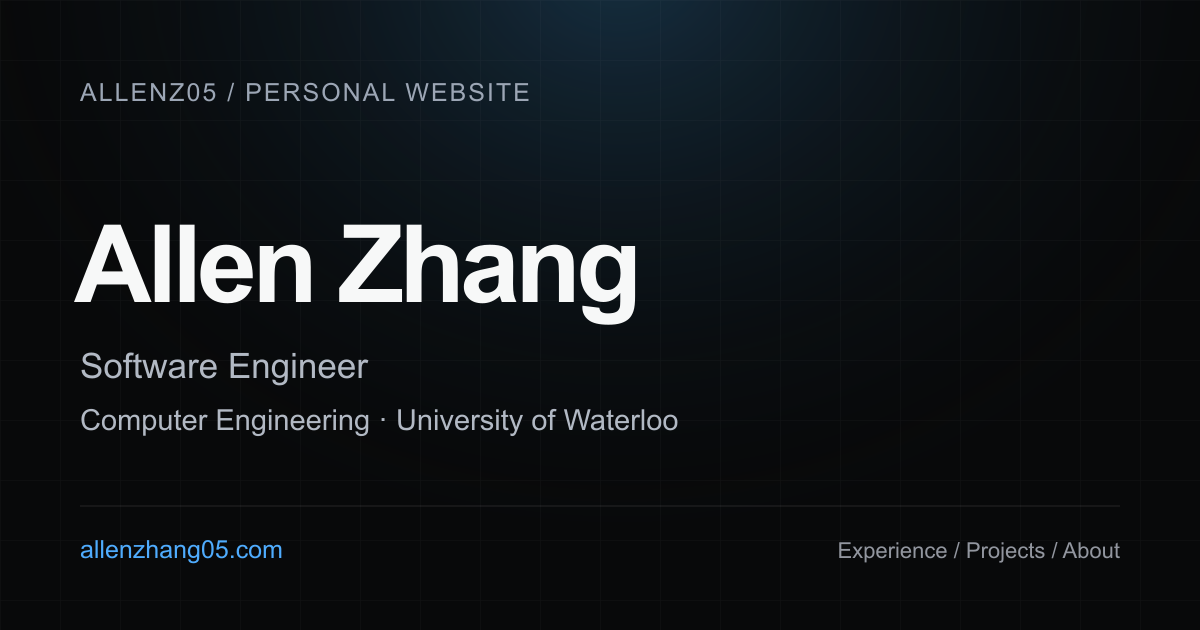
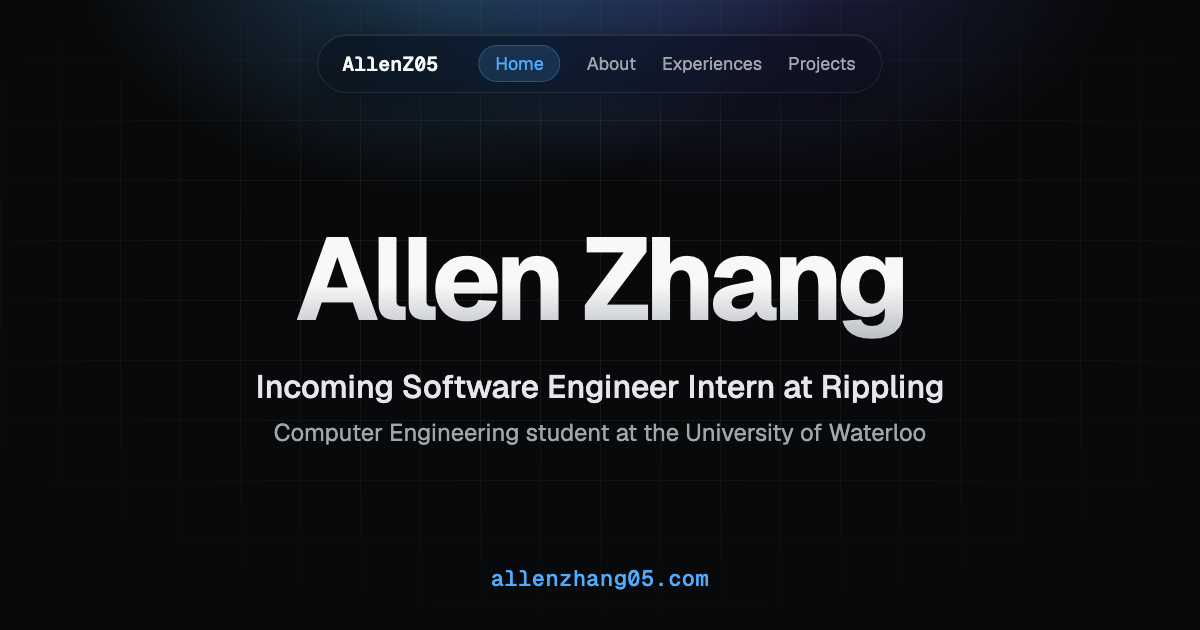
Regenerate the link preview image from profile data in the glass style

diff --git a/Allen-Zhang/assets/social-preview.html b/Allen-Zhang/assets/social-preview.html
@@ -1,0 +1,133 @@
+<!doctype html>
+<!-- Link preview (Open Graph) image. scripts/social-preview.mjs fills the double-brace placeholders from
+     src/data/profile.js and renders this page to public/social-preview.png at 1200×630. -->
+<html lang="en">
+  <head>
+    <meta charset="utf-8" />
+    <link
+      href="https://fonts.googleapis.com/css2?family=Geist:wght@400;500;700&family=Geist+Mono:wght@500;600&display=block"
+      rel="stylesheet"
+    />
+    <style>
+      * {
+        margin: 0;
+        box-sizing: border-box;
+      }
+      body {
+        position: relative;
+        width: 1200px;
+        height: 630px;
+        overflow: hidden;
+        background: #08090a;
+        color: #f7f8f8;
+        font-family: Geist, system-ui, sans-serif;
+      }
+      .glow {
+        position: absolute;
+        inset: 0;
+        background:
+          radial-gradient(ellipse 45% 55% at 38% -8%, rgba(79, 172, 254, 0.32), transparent 70%),
+          radial-gradient(ellipse 45% 55% at 62% -8%, rgba(99, 102, 241, 0.26), transparent 70%);
+      }
+      .grid {
+        position: absolute;
+        inset: 0;
+        background-image:
+          linear-gradient(rgba(255, 255, 255, 0.06) 1px, transparent 1px),
+          linear-gradient(90deg, rgba(255, 255, 255, 0.06) 1px, transparent 1px);
+        background-size: 60px 60px;
+        mask-image: radial-gradient(ellipse 75% 70% at 50% 42%, #000 30%, transparent 80%);
+      }
+      /* The site's floating glass navbar, as a brand cue. */
+      .nav {
+        position: absolute;
+        top: 34px;
+        left: 50%;
+        translate: -50% 0;
+        display: flex;
+        align-items: center;
+        gap: 26px;
+        padding: 10px 26px 10px 24px;
+        border: 1px solid rgba(255, 255, 255, 0.09);
+        border-radius: 999px;
+        background: rgba(14, 15, 18, 0.55);
+        box-shadow:
+          inset 0 1px 0 rgba(255, 255, 255, 0.1),
+          0 8px 32px rgba(0, 0, 0, 0.35);
+        backdrop-filter: blur(20px) saturate(180%);
+        font-size: 18px;
+        color: #a1a5ad;
+      }
+      .logo {
+        margin-right: 14px;
+        font: 600 20px "Geist Mono", monospace;
+        color: #f7f8f8;
+      }
+      .active {
+        padding: 6px 16px;
+        border: 1px solid rgba(79, 172, 254, 0.3);
+        border-radius: 999px;
+        background: rgba(79, 172, 254, 0.15);
+        color: #4facfe;
+      }
+      .content {
+        position: absolute;
+        inset: 0;
+        display: flex;
+        flex-direction: column;
+        align-items: center;
+        justify-content: center;
+        padding-top: 36px;
+        text-align: center;
+      }
+      h1 {
+        font-size: 116px;
+        font-weight: 700;
+        letter-spacing: -0.045em;
+        line-height: 1.05;
+        background: linear-gradient(180deg, #f7f8f8 55%, #92969f 130%);
+        -webkit-background-clip: text;
+        background-clip: text;
+        color: transparent;
+      }
+      .role {
+        margin-top: 26px;
+        font-size: 32px;
+        font-weight: 500;
+        color: #e5e7eb;
+      }
+      .education {
+        margin-top: 10px;
+        font-size: 24px;
+        color: #a1a5ad;
+      }
+      .url {
+        position: absolute;
+        bottom: 38px;
+        left: 0;
+        right: 0;
+        text-align: center;
+        font: 500 22px "Geist Mono", monospace;
+        letter-spacing: 0.02em;
+        color: #4facfe;
+      }
+    </style>
+  </head>
+  <body>
+    <div class="glow"></div>
+    <div class="grid"></div>
+    <div class="nav">
+      <span class="logo">AllenZ05</span>
+      <span class="active">Home</span>
+      <span>About</span>
+      <span>Experiences</span>
+      <span>Projects</span>
+    </div>
+    <div class="content">
+      <h1>{{name}}</h1>
+      <p class="role">{{role}}</p>
+      <p class="education">{{education}}</p>
+    </div>
+    <p class="url">allenzhang05.com</p>
+  </body>
+</html>

diff --git a/Allen-Zhang/src/app/siteConfig.js b/Allen-Zhang/src/app/siteConfig.js
@@ -24,7 +24,7 @@ export function pageMetadata(title, description, path) {
           url: OG_IMAGE,
           width: 1200,
           height: 630,
-          alt: `${SITE_NAME} — Software Engineer & Waterloo Computer Engineering`,
+          alt: `${SITE_NAME} — ${roleLabel}, ${profile.education}`,
         },
       ],
     },

diff --git a/Allen-Zhang/README.md b/Allen-Zhang/README.md
@@ -26,7 +26,7 @@ Most structured page content lives in data files:
 
 The introduction is in `src/views/About/About.jsx`. Page descriptions and canonical/social metadata live in `src/app/*/page.jsx` and `src/app/siteConfig.js`.
 
-Project cards use small WebP thumbnails; their `preview` field points to the full image loaded only when opened. The fall-detection diagram is an editable SVG in `public/projects/`. The social card source is `assets/social-preview.svg`, with its PNG export in `public/social-preview.png`.
+Project cards use small WebP thumbnails; their `preview` field points to the full image loaded only when opened. The fall-detection diagram is an editable SVG in `public/projects/`. The link preview image (`public/social-preview.png`) is rendered from `assets/social-preview.html` with details from `src/data/profile.js`; run `npm run social-preview` after changing your role or education.
 
 ## Browser checks
 
